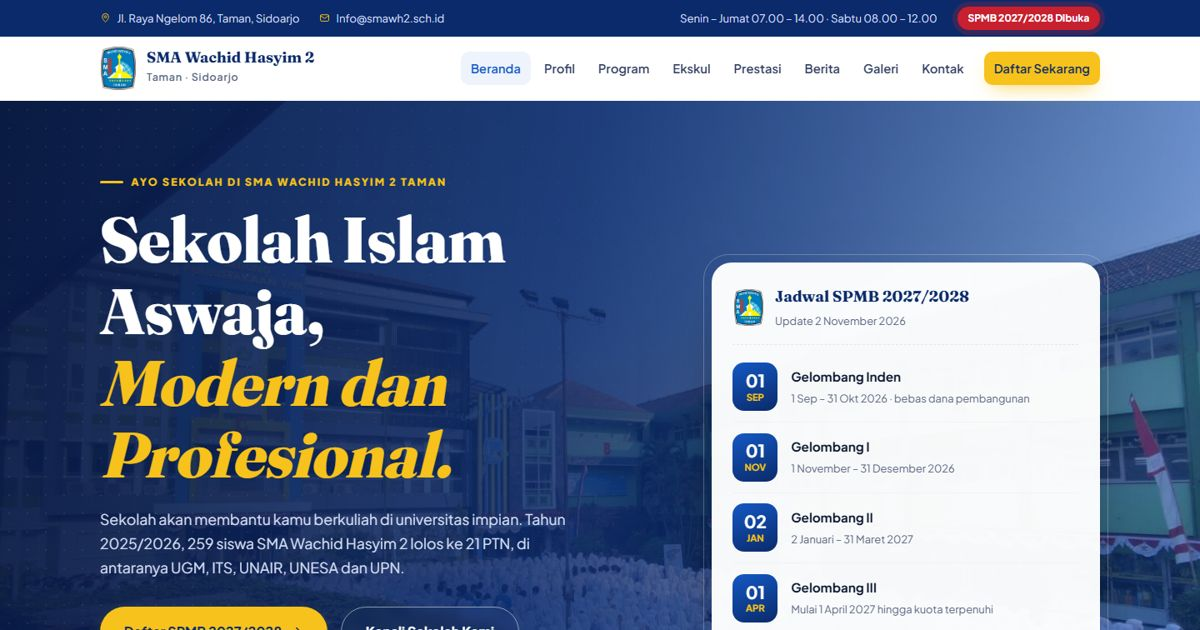
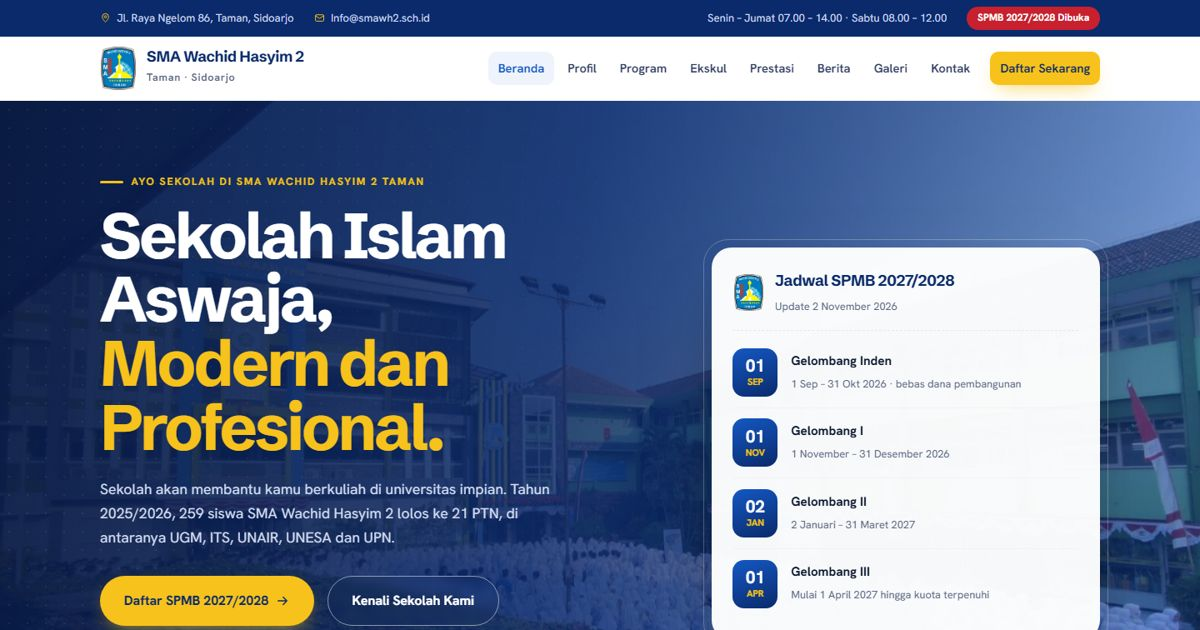
Ganti font ke Schibsted Grotesk dan Hanken Grotesk
Fraunces dan Plus Jakarta Sans diganti; judul tegak tanpa italic,
tracking lebih rapat, angka tabular. Perbaiki menu HP yang menyembul
di atas header dan top bar HP jadi satu baris.

diff --git a/style.css b/style.css
@@ -2,7 +2,7 @@
   --navy:#0a2a6b; --blue:#1458c4; --sky:#3fa9f5; --gold:#f7c21b; --gold-d:#d9a400;
   --red:#c8202f; --ink:#0f1b33; --muted:#5b6782; --line:#e3e8f2; --bg:#f6f8fc; --white:#fff;
   --r:18px; --shadow:0 20px 50px -20px rgba(10,42,107,.35);
-  --serif:'Fraunces',Georgia,serif; --sans:'Plus Jakarta Sans',system-ui,sans-serif;
+  --serif:'Schibsted Grotesk','Helvetica Neue',Arial,sans-serif; --sans:'Hanken Grotesk','Helvetica Neue',Arial,sans-serif;
 }
 *{box-sizing:border-box;margin:0;padding:0}
 html{scroll-behavior:smooth;scroll-padding-top:84px}
@@ -357,3 +357,24 @@ h3{font-size:1.25rem;font-weight:700}
 .ek b{display:block}
 .quote-badge{z-index:3}
 .sambutan-photo .photo-frame{position:relative}
+
+/* ===== tipografi baru: Schibsted Grotesk (judul) + Hanken Grotesk (teks) ===== */
+body{font-size:16.5px;font-feature-settings:"ss01","cv11";text-rendering:optimizeLegibility}
+h1,h2,h3{letter-spacing:-.028em;line-height:1.08}
+.hero h1{font-weight:700;letter-spacing:-.045em;line-height:1}
+.hero h1 em{font-style:normal;font-weight:700}
+h2{font-weight:650;letter-spacing:-.035em}
+h3{font-weight:650;letter-spacing:-.015em}
+.brand strong{font-weight:700;letter-spacing:-.02em}
+.hc-head b,.signature b{font-weight:650;letter-spacing:-.02em}
+.stat b,.medal-row b,.since span{font-weight:700;letter-spacing:-.04em;font-variant-numeric:tabular-nums}
+.date b,.steps li>b,.misi i{font-variant-numeric:tabular-nums;font-weight:700}
+.eyebrow{letter-spacing:.14em;font-weight:700}
+.visi-box p,.tq p,.quote-badge{font-style:normal;font-weight:500;letter-spacing:-.015em}
+.tq p{line-height:1.4}
+.visi-box::after{font-family:Georgia,serif}
+.btn,.tab,.chip,.lvl,.tag{letter-spacing:-.005em}
+.sambutan-text p,.tab-panel>p,.pcard p,.news-body p{line-height:1.7}
+/* menu HP: benar-benar tersembunyi saat tertutup; top bar satu baris di HP */
+@media (max-width:1080px){.nav{visibility:hidden}.nav.open{visibility:visible}}
+@media (max-width:560px){.topbar-in{justify-content:center}.tb-left{display:none}}

diff --git a/index.html b/index.html
@@ -12,7 +12,7 @@
 <link rel="icon" href="favicon.png" type="image/png">
 <link rel="preconnect" href="https://fonts.googleapis.com">
 <link rel="preconnect" href="https://fonts.gstatic.com" crossorigin>
-<link href="https://fonts.googleapis.com/css2?family=Fraunces:opsz,wght@9..144,500;9..144,700;9..144,800&family=Plus+Jakarta+Sans:wght@400;500;600;700;800&display=swap" rel="stylesheet">
+<link href="https://fonts.googleapis.com/css2?family=Schibsted+Grotesk:wght@500;600;700&family=Hanken+Grotesk:wght@400;500;600;700&display=swap" rel="stylesheet">
 <link rel="stylesheet" href="style.css">
 </head>
 <body>
